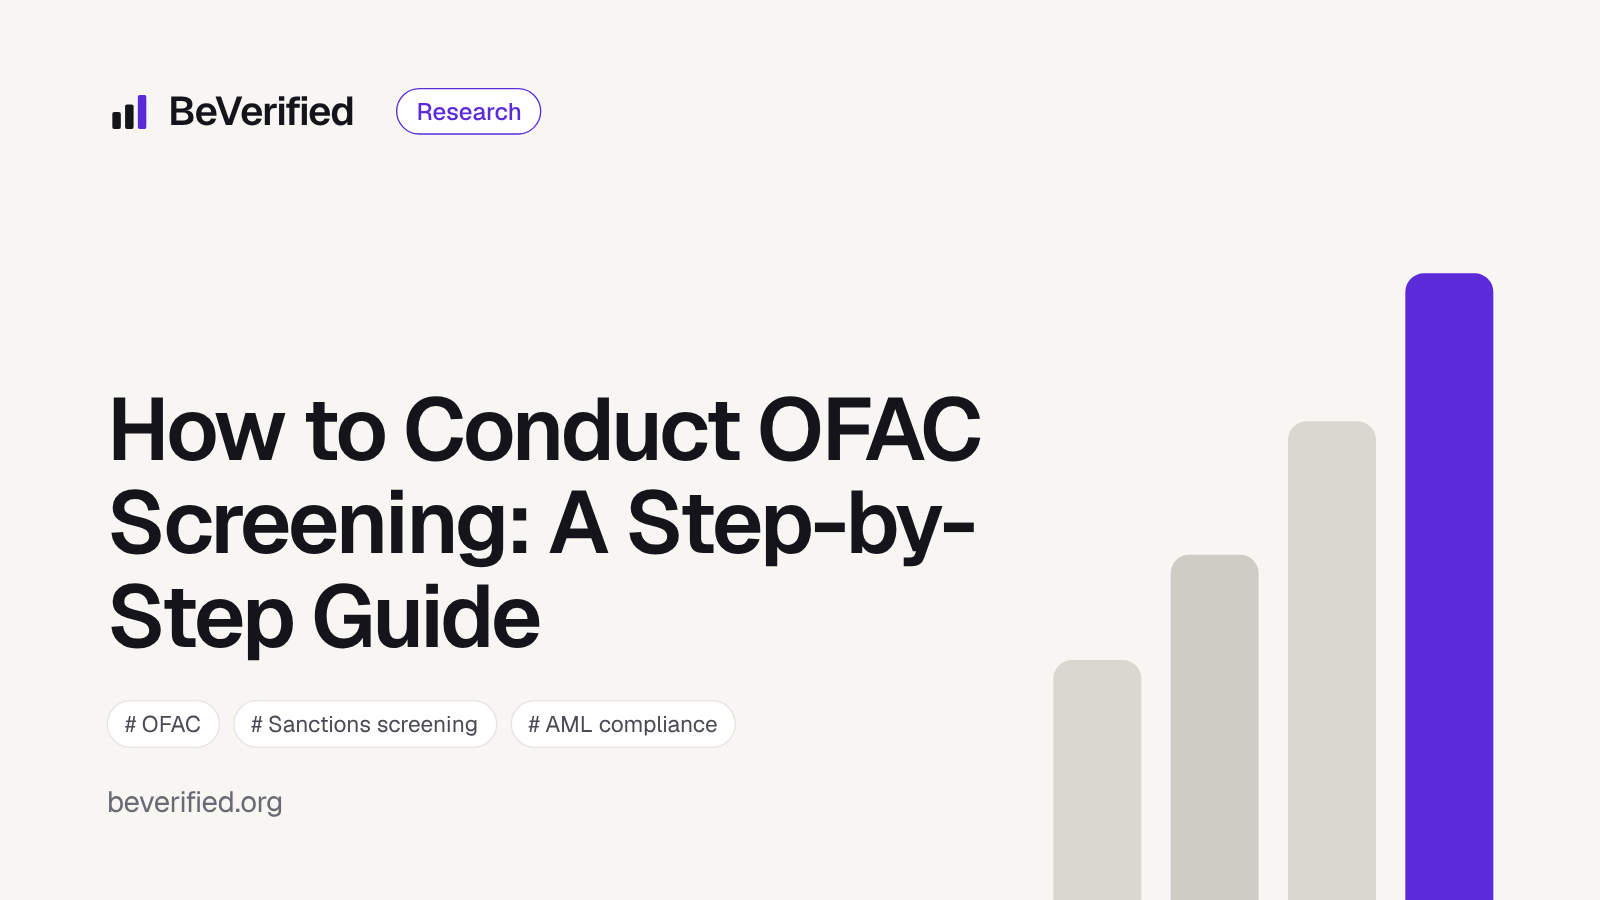
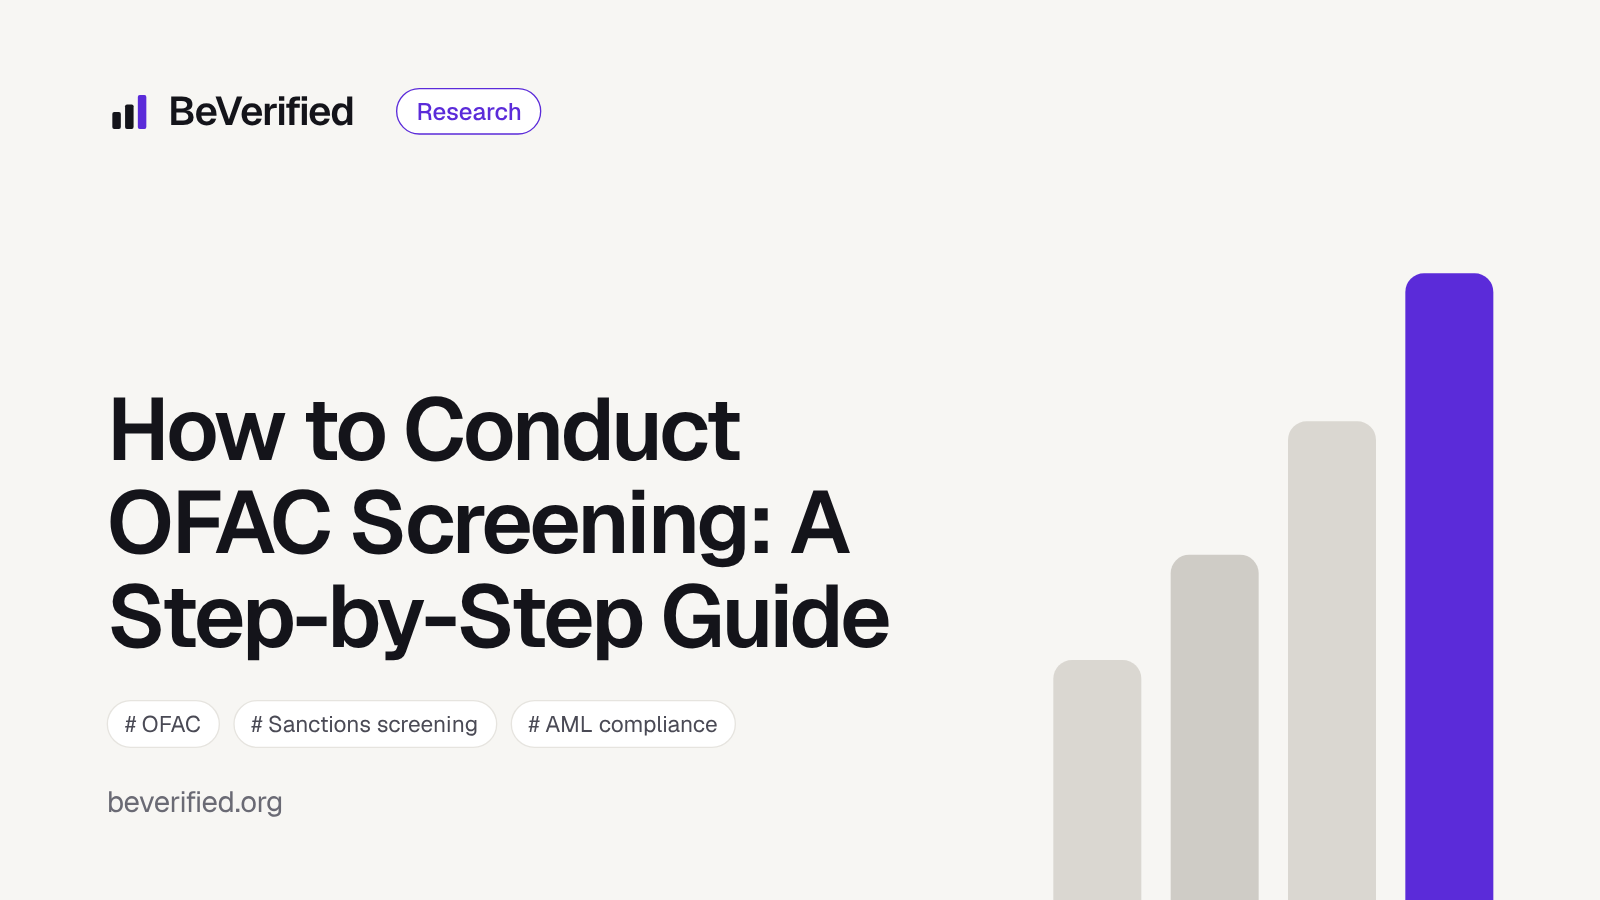
Fix stretched blog covers when an old stylesheet is cached
- v3.css is now loaded with a content-hash ?v= so new HTML never pairs with a stale cached CSS
- global img height:auto plus inline height:auto on cover images (width/height attributes no longer stretch)
- covers: title column ends 56px before the bars; all 27 re-rendered

Claude-Session: https://claude.ai/code/session_018bREGifTcTfcWmuKU2P1bx

Changed region(s): [[0.0625, 0.4356, 0.625, 0.7467]]

diff --git a/eleventy.config.js b/eleventy.config.js
@@ -1,3 +1,4 @@
+import { createHash } from "node:crypto";
 import fs from "node:fs";
 import yaml from "js-yaml";
 
@@ -80,6 +81,12 @@ export default function (eleventyConfig) {
   eleventyConfig.addCollection("articles", (api) =>
     api.getFilteredByGlob(["src/guide/*.md", "src/news/*.md", "src/publications/*.md"])
       .sort((a, b) => articleTime(b).localeCompare(articleTime(a))));
+  // Cache-busting: ?v=<content hash> so browsers never pair new HTML with an old cached stylesheet.
+  eleventyConfig.addFilter("assetVersion", (url) => {
+    const file = new URL(`./src${url}`, import.meta.url);
+    const hash = fs.existsSync(file) ? createHash("sha1").update(fs.readFileSync(file)).digest("hex").slice(0, 10) : "";
+    return hash ? `${url}?v=${hash}` : url;
+  });
   eleventyConfig.addFilter("iso", isoDate);
   eleventyConfig.addFilter("sectionLabel", (s) => SECTION_LABEL[s] || s);
   eleventyConfig.addFilter("readingTime", (html) =>

diff --git a/src/assets/css/v3.css b/src/assets/css/v3.css
@@ -35,7 +35,7 @@
 *, *::before, *::after { box-sizing: border-box; }
 html, body { margin: 0; background: var(--bg); color: var(--ink); scroll-behavior: smooth; }
 body { font-family: var(--font); font-size: 16px; line-height: 1.5; -webkit-font-smoothing: antialiased; }
-img { max-width: 100%; }
+img { max-width: 100%; height: auto; }
 a { color: var(--accent); text-decoration: none; }
 a:hover { color: var(--accent-hover); text-decoration: underline; text-underline-offset: 3px; }
 button { font-family: inherit; }
